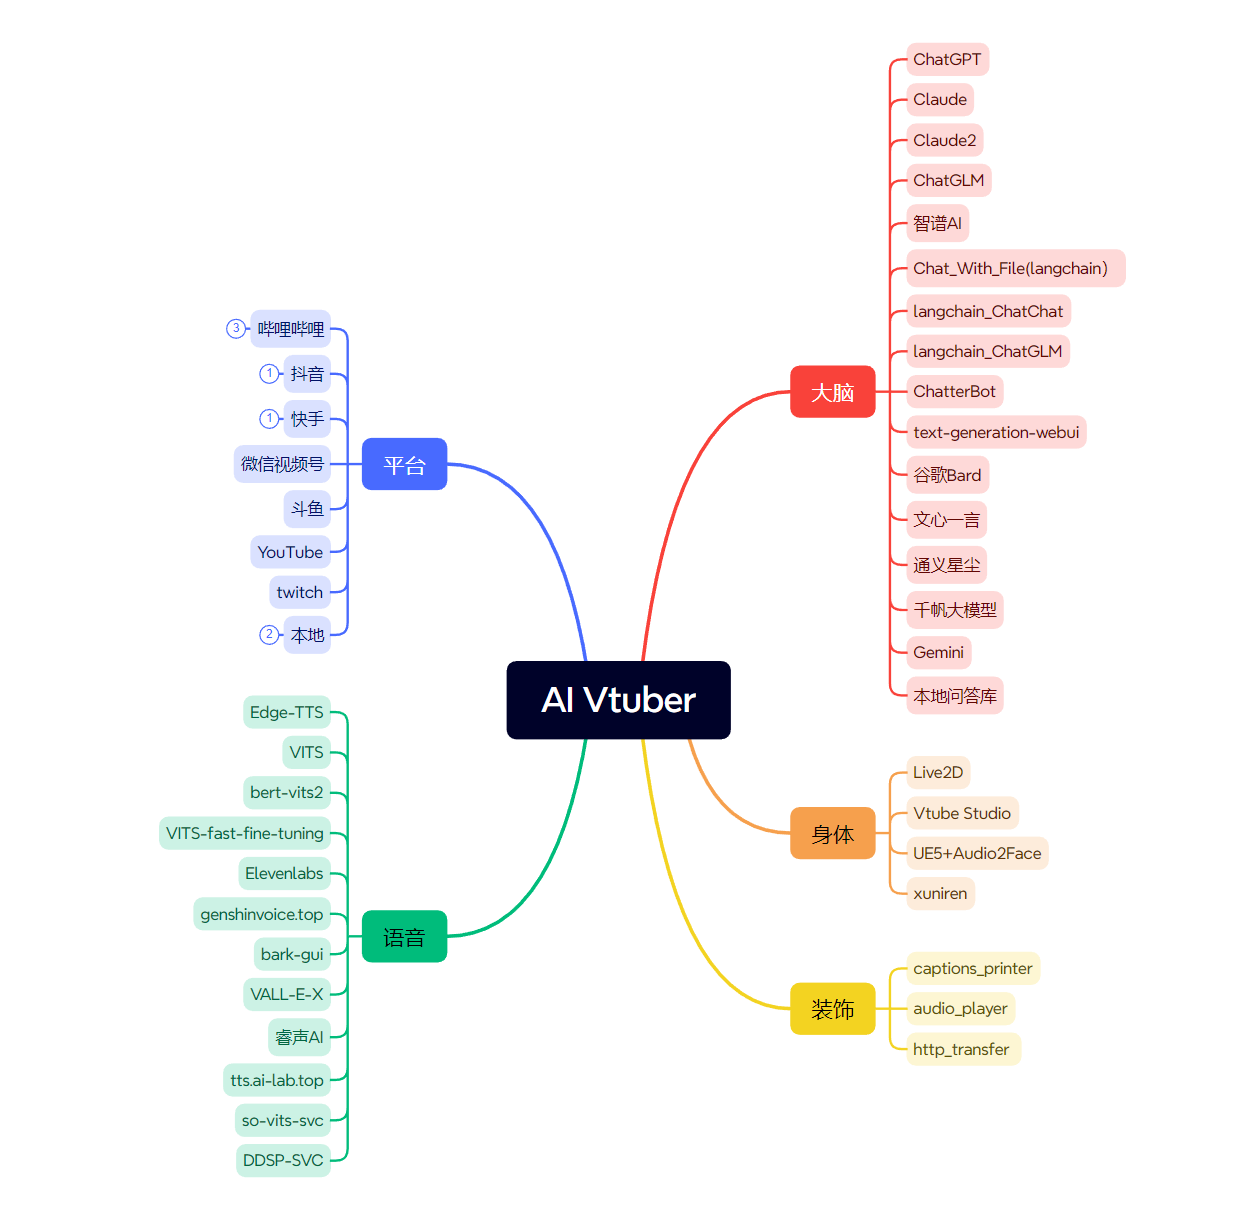
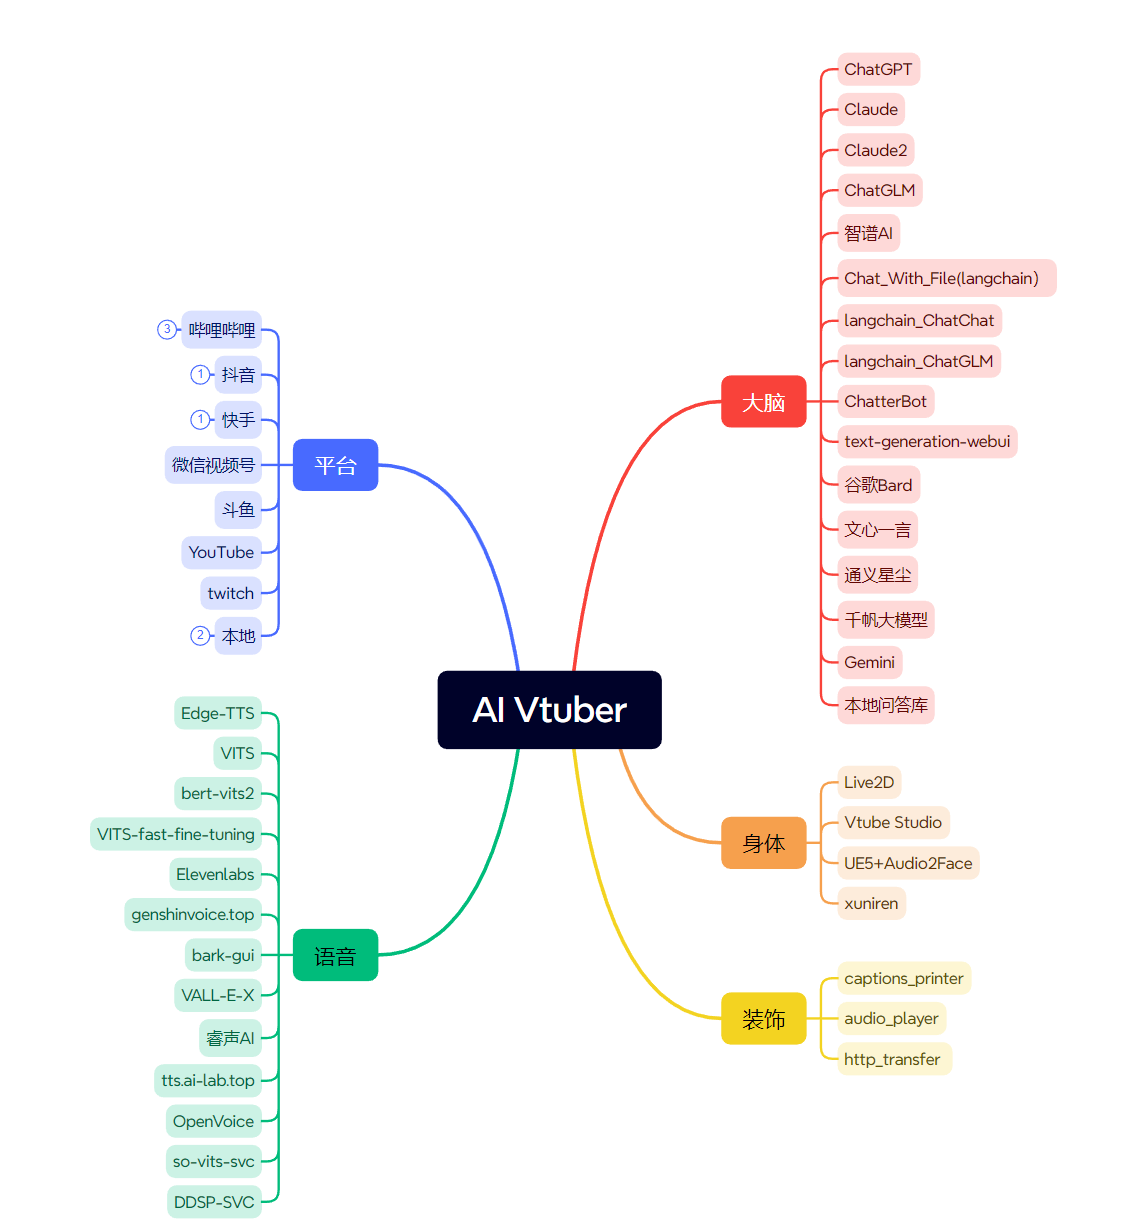
更新思维导图

diff --git a/README.md b/README.md
@@ -10,7 +10,7 @@
 
 `Luna AI` 的外观由 `Live2D、Vtube Studio、xuniren 和 UE5 结合 Audio2Face` 技术打造，为用户提供了一个生动、互动的虚拟形象。这使得 `Luna AI` 能够在各大直播平台，如 `Bilibili、抖音、快手、微信视频号、斗鱼、YouTube 和 Twitch`，进行实时互动直播。当然，它也可以在本地环境中与您进行个性化对话。
 
-为了使交流更加自然，`Luna AI` 使用了先进的自然语言处理技术，结合文本转语音系统，如 `Edge-TTS、VITS-Fast、elevenlabs、bark-gui、VALL-E-X、睿声AI、genshinvoice.top 和 tts.ai-lab.top`。这不仅让它能够生成流畅的回答，还可以通过 `so-vits-svc 和 DDSP-SVC` 实现声音的变化，以适应不同的场景和角色。
+为了使交流更加自然，`Luna AI` 使用了先进的自然语言处理技术，结合文本转语音系统，如 `Edge-TTS、VITS-Fast、elevenlabs、bark-gui、VALL-E-X、睿声AI、genshinvoice.top、tts.ai-lab.top 和 OpenVoice`。这不仅让它能够生成流畅的回答，还可以通过 `so-vits-svc 和 DDSP-SVC` 实现声音的变化，以适应不同的场景和角色。
 
 此外，`Luna AI` 还能够通过特定指令与 `Stable Diffusion` 协作，展示画作。用户还可以自定义文案，让 Luna AI 循环播放，以满足不同场合的需求。
 
